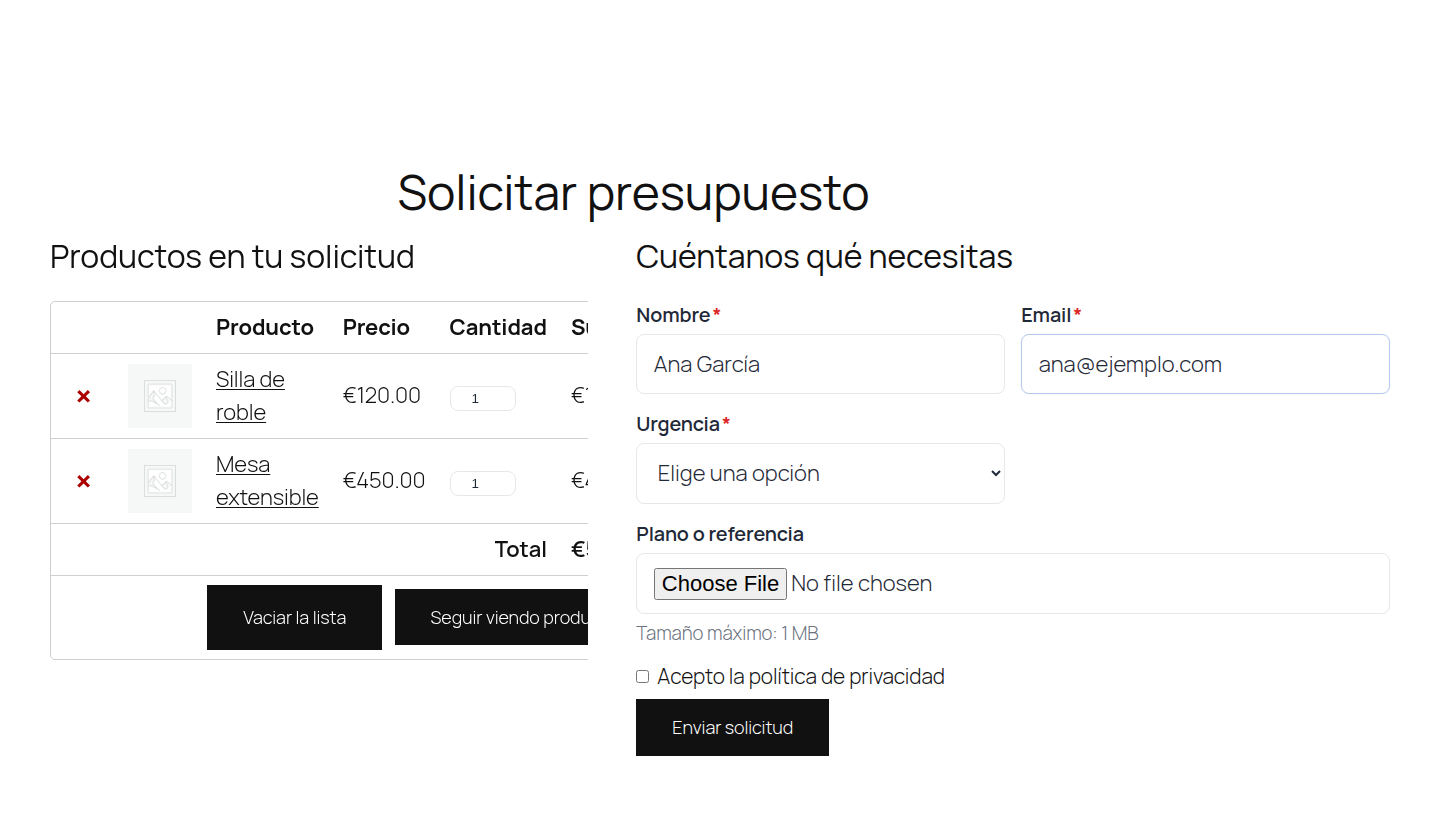
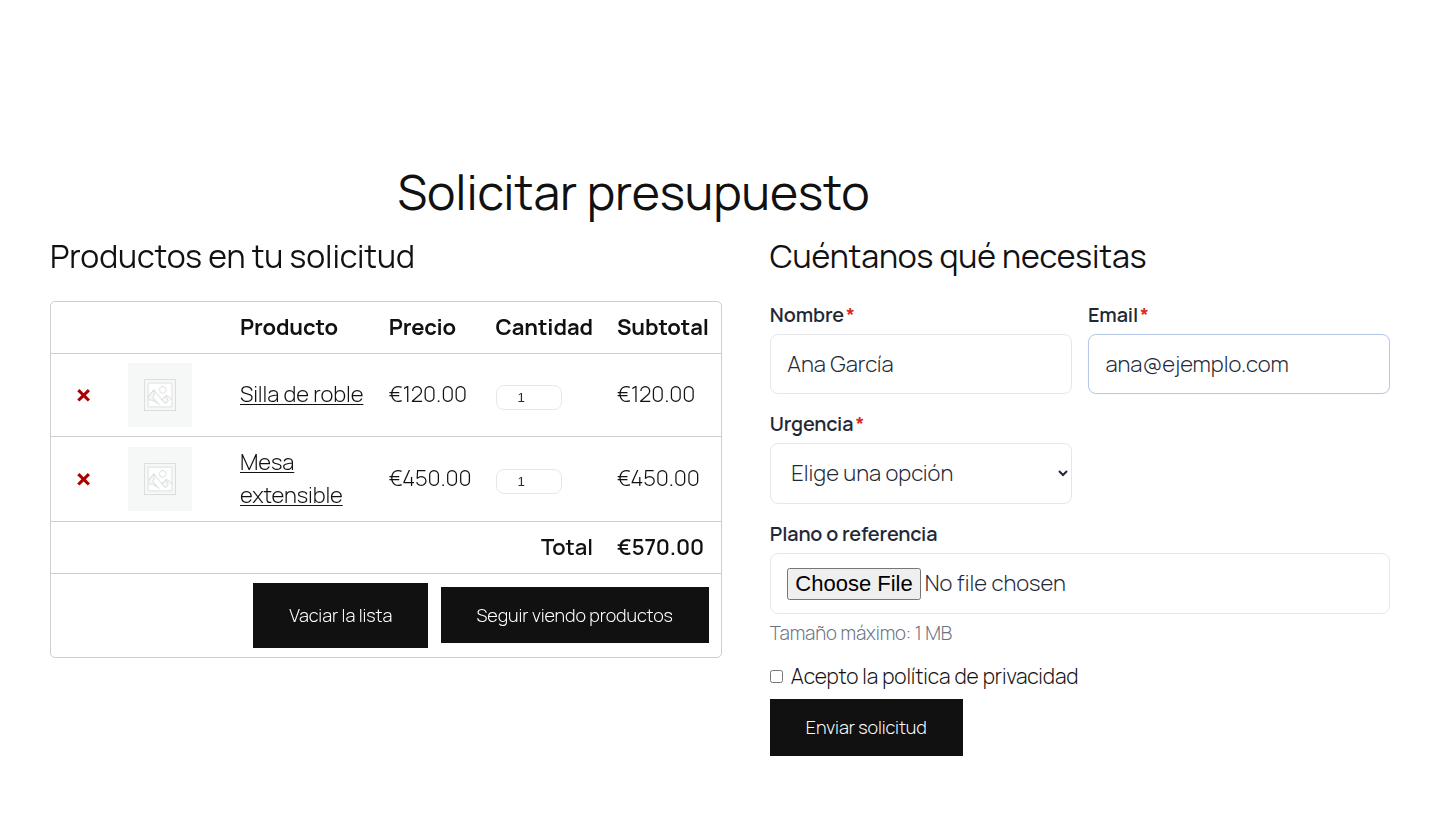
Versión 1.11.2: la tabla se apila cuando no cabe en su columna
Claude-Session: https://claude.ai/code/session_01QE42gqmje94otJcYESvzgU

diff --git a/imagina-woo-quotes/assets/css/frontend.css b/imagina-woo-quotes/assets/css/frontend.css
@@ -293,6 +293,68 @@
 	overflow-x: auto;
 }
 
+/* La columna de la lista mide su propio ancho: cuando no cabe la tabla
+   completa, cada línea pasa al formato apilado que WooCommerce usa en el
+   móvil (etiqueta: valor), igual que hace el carrito con
+   shop_table_responsive, en vez de recortarse. */
+.iwq-quote-page__list {
+	container: iwq-list / inline-size;
+}
+
+@container iwq-list ( max-width: 620px ) {
+	.iwq-cart-table thead {
+		display: none;
+	}
+
+	.iwq-cart-table tr {
+		display: block;
+	}
+
+	.iwq-cart-table tbody tr:first-child td:first-child {
+		border-top: 0;
+	}
+
+	.iwq-cart-table tr:nth-child( 2n ) td {
+		background-color: rgba( 0, 0, 0, 0.025 );
+	}
+
+	.iwq-cart-table td {
+		display: block;
+		text-align: right;
+	}
+
+	.iwq-cart-table td::before {
+		content: attr( data-title ) ': ';
+		font-weight: 700;
+		float: left;
+	}
+
+	.iwq-cart-table td.product-remove::before,
+	.iwq-cart-table td.actions::before,
+	.iwq-cart-table td.iwq-cart-total__label::before {
+		display: none;
+	}
+
+	.iwq-cart-table .product-thumbnail,
+	.iwq-cart-table tr.iwq-cart-total .iwq-cart-total__label {
+		display: none;
+	}
+
+	.iwq-cart-table td.actions {
+		text-align: left;
+	}
+
+	.iwq-cart-table td.actions .button {
+		display: block;
+		width: 100%;
+	}
+
+	.iwq-cart-table td.actions .button + .button {
+		margin-left: 0;
+		margin-top: 8px;
+	}
+}
+
 @container ( max-width: 760px ) {
 	.iwq-quote-page--columns .iwq-quote-page__layout {
 		grid-template-columns: 1fr;

diff --git a/docs/manual.html b/docs/manual.html
@@ -439,7 +439,7 @@
 			<p class="lead">Solicitud de presupuestos para WooCommerce. Esta guía explica cómo funciona de principio a fin, qué ve el cliente y qué hace cada ajuste.</p>
 		</div>
 		<div class="masthead__meta">
-			<div>Versión del manual <b>1.11.1</b></div>
+			<div>Versión del manual <b>1.11.2</b></div>
 			<div>Requiere <b>WordPress 6.4</b> · <b>WooCommerce 8.0</b> · <b>PHP 8.1</b></div>
 			<div class="theme-switch" role="group" aria-label="Tema de la página">
 				<button type="button" data-mode="light" aria-pressed="false">Claro</button>
@@ -826,7 +826,7 @@ add_filter( 'iwq_design_css', fn( $css ) => $css . '.iwq-add-button{letter-spaci
 	</main>
 </div>
 
-<footer class="colophon">Imagina Woo Quotes · Manual actualizado para la versión 1.11.1. Las capturas proceden de una tienda de pruebas con WordPress en inglés; el plugin se muestra en español.</footer>
+<footer class="colophon">Imagina Woo Quotes · Manual actualizado para la versión 1.11.2. Las capturas proceden de una tienda de pruebas con WordPress en inglés; el plugin se muestra en español.</footer>
 
 <script>
 (function () {

diff --git a/imagina-woo-quotes/imagina-woo-quotes.php b/imagina-woo-quotes/imagina-woo-quotes.php
@@ -3,7 +3,7 @@
  * Plugin Name: Imagina Woo Quotes
  * Plugin URI:  https://github.com/augusto97/imagina-woo-quotes
  * Description: Permite a los clientes armar una lista de productos y solicitar un presupuesto. El presupuesto se gestiona como un pedido de WooCommerce, con PDF, emails y formulario configurable.
- * Version:     1.11.1
+ * Version:     1.11.2
  * Author:      Imagina
  * Text Domain: imagina-woo-quotes
  * Domain Path: /languages
@@ -20,7 +20,7 @@
 
 defined( 'ABSPATH' ) || exit;
 
-define( 'IWQ_VERSION', '1.11.1' );
+define( 'IWQ_VERSION', '1.11.2' );
 define( 'IWQ_FILE', __FILE__ );
 define( 'IWQ_DIR', plugin_dir_path( __FILE__ ) );
 define( 'IWQ_URL', plugin_dir_url( __FILE__ ) );

diff --git a/CHANGELOG.md b/CHANGELOG.md
@@ -6,6 +6,15 @@ Versionado [semántico](https://semver.org/lang/es/): MAYOR.MENOR.PARCHE.
 El zip instalable de la última versión está en la rama `release`, siempre
 con el nombre `imagina-woo-quotes.zip`.
 
+## [1.11.2] - 2026-09-04
+
+### Corregido
+- En dos columnas, si la columna de la lista era más estrecha que la tabla
+  de productos, la tabla se recortaba y dejaba fuera el subtotal. Ahora la
+  columna mide su propio ancho y, cuando no cabe la tabla completa, cada
+  línea pasa al formato apilado que WooCommerce usa en el móvil (etiqueta:
+  valor), como hace el propio carrito
+
 ## [1.11.1] - 2026-09-04
 
 ### Corregido
@@ -340,6 +349,7 @@ Primera versión.
 - WordPress 6.9.7, WooCommerce 10.9.0, PHP 8.4, tema Twenty Twenty-Five
 - 27 comprobaciones de navegador con Playwright sobre Chromium
 
+[1.11.2]: https://github.com/augusto97/imagina-woo-quotes/releases/tag/v1.11.2
 [1.11.1]: https://github.com/augusto97/imagina-woo-quotes/releases/tag/v1.11.1
 [1.11.0]: https://github.com/augusto97/imagina-woo-quotes/releases/tag/v1.11.0
 [1.10.0]: https://github.com/augusto97/imagina-woo-quotes/releases/tag/v1.10.0
